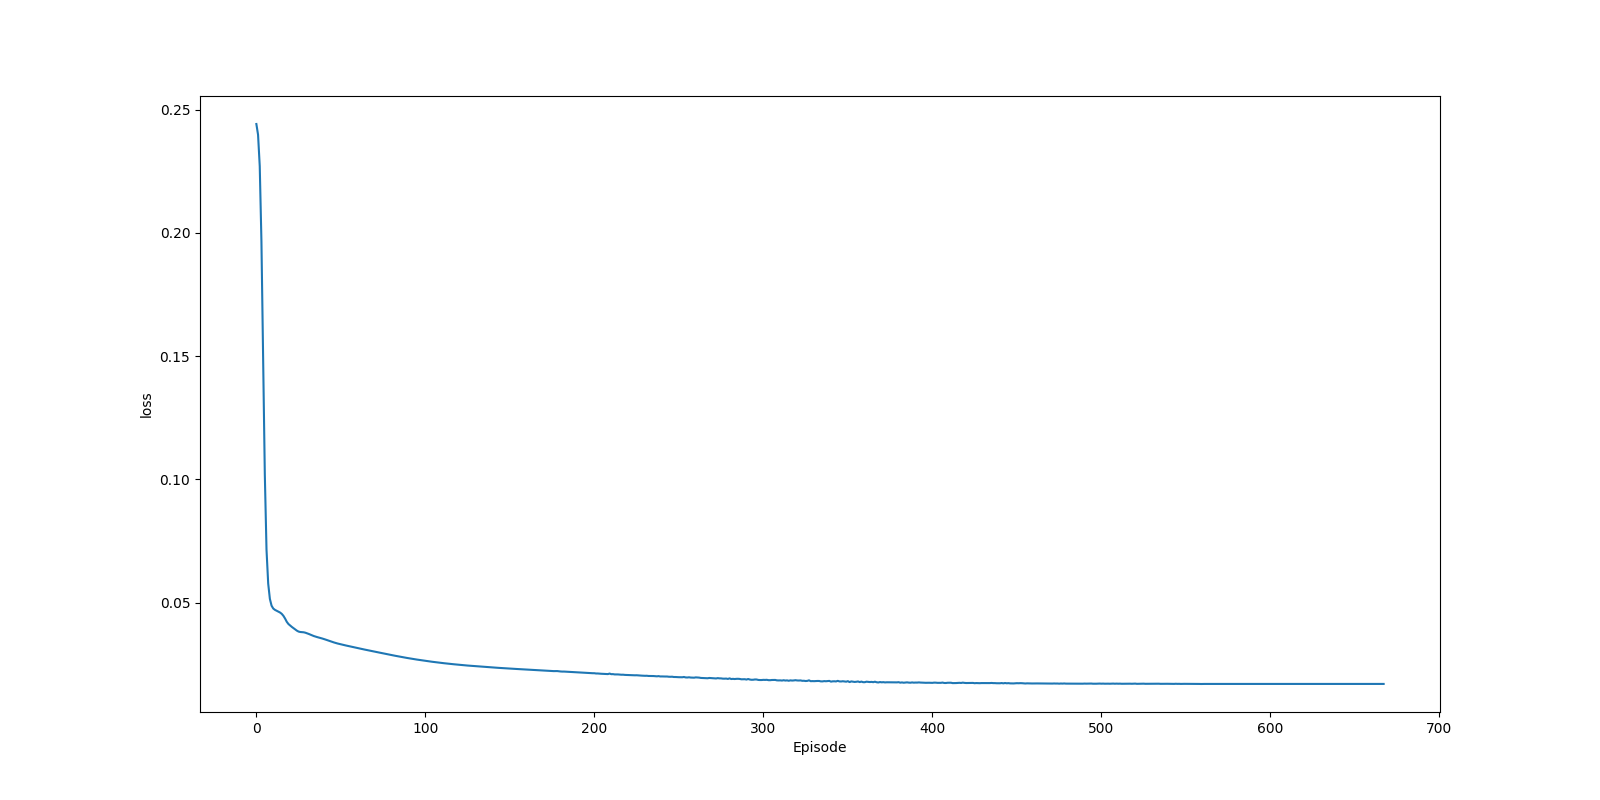
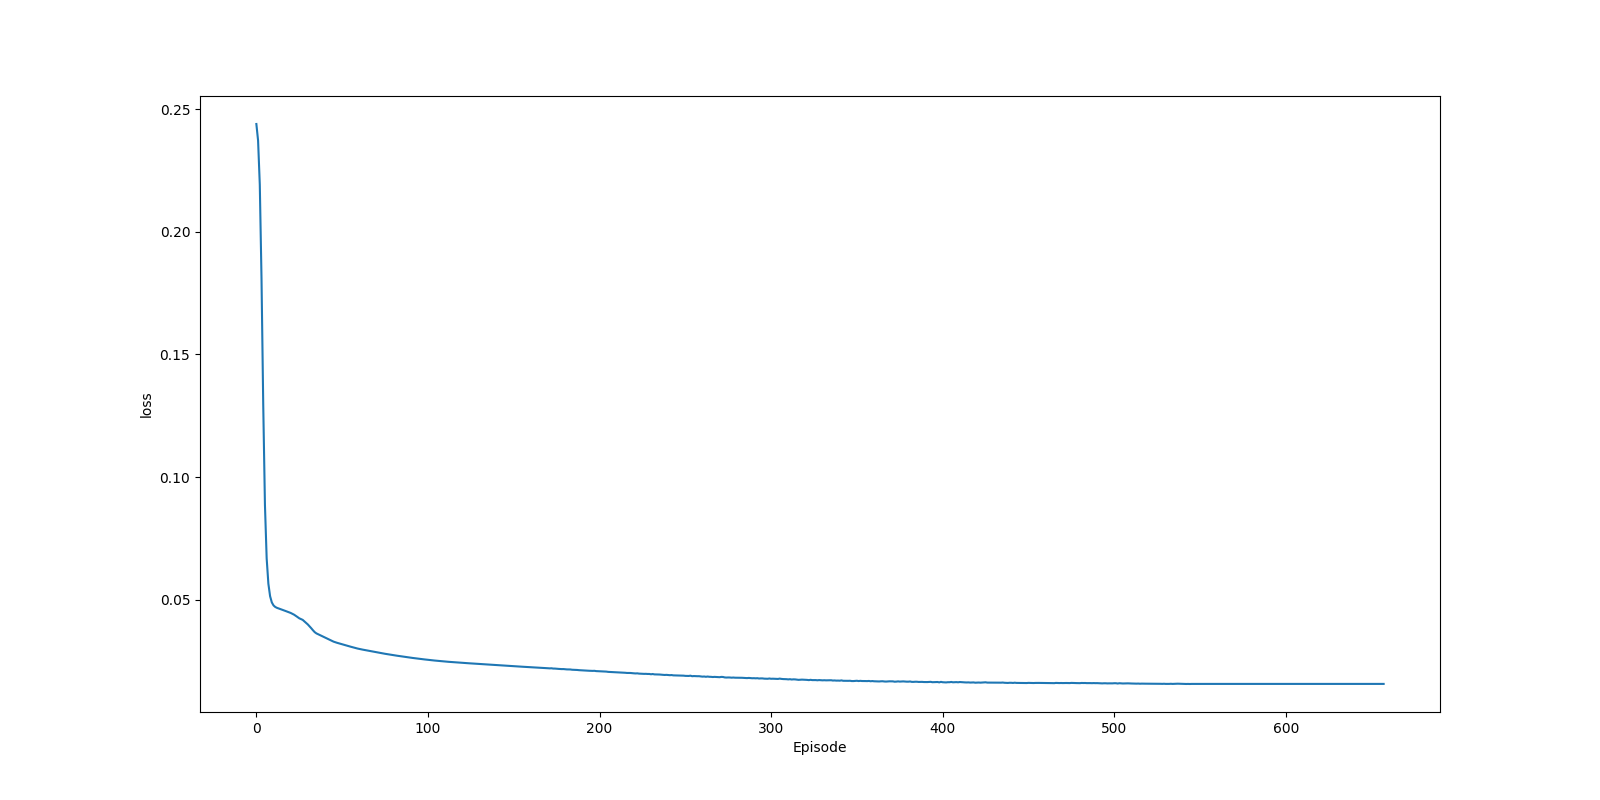
pole is generating well, started fake memory

diff --git a/project_experiments/vision_cart_pole.py b/project_experiments/vision_cart_pole.py
@@ -33,6 +33,10 @@ for filename in os.listdir(folder):
 
 ############ HYPERPARAMETERS ##############
 BATCH_SIZE = 128 # original = 128
+#env_batch_size = 256
+env_epochs = 10
+env_lr = 0.001
+env_decay = 0.9
 GAMMA = 0.999 # original = 0.999
 EPS_START = 0.9 # original = 0.9
 EPS_END = 0.01 # original = 0.05
@@ -53,6 +57,10 @@ HIDDEN_LAYER_2 = 64
 HIDDEN_LAYER_3 = 32
 KERNEL_SIZE = 5 # original = 5
 STRIDE = 2 # original = 2
+latent_dims = 15
+action_latents = 10
+deconv_ch2 = 128
+deconv_ch1 = 64
 # --------------------------------------
 
 GRAYSCALE = True # False is RGB
@@ -94,6 +102,8 @@ if is_ipython:
 
 Transition = namedtuple('Transition',
                         ('state', 'action', 'next_state', 'reward'))
+env_transition = namedtuple('Transition',
+                        ('state', 'action', 'next_state', 'state_vars'))
 
 # Memory for Experience Replay
 class ReplayMemory(object):
@@ -149,7 +159,7 @@ class DQN(nn.Module):
     
 class D_AutoEncoder(nn.Module):
 
-    def __init__(self, h, w, latent_dim, actions, action_latents):
+    def __init__(self, h, w, latent_dim, actions, action_latents):#""", state_vars):"""
         super(D_AutoEncoder, self).__init__()
         self.conv1 = nn.Conv2d(nn_inputs, HIDDEN_LAYER_1, kernel_size=KERNEL_SIZE, stride=STRIDE) 
         self.bn1 = nn.BatchNorm2d(HIDDEN_LAYER_1)
@@ -170,9 +180,10 @@ class D_AutoEncoder(nn.Module):
         self.latentize = nn.Linear(linear_input_size, latent_dim)
         self.action_encode = nn.Linear(actions, action_latents)
         self.un_latentize = nn.Linear(latent_dim + action_latents, linear_input_size)
-        self.tconv3 = nn.ConvTranspose2d(HIDDEN_LAYER_3, HIDDEN_LAYER_2, kernel_size=KERNEL_SIZE, stride=STRIDE, output_padding=[1,0])
-        self.tconv2 = nn.ConvTranspose2d(HIDDEN_LAYER_2, HIDDEN_LAYER_1, kernel_size=KERNEL_SIZE, stride=STRIDE, output_padding=[1,1])
-        self.tconv1 = nn.ConvTranspose2d(HIDDEN_LAYER_1, nn_inputs, kernel_size=KERNEL_SIZE, stride=STRIDE, output_padding=[1,0])
+        self.tconv3 = nn.ConvTranspose2d(HIDDEN_LAYER_3, deconv_ch2, kernel_size=KERNEL_SIZE, stride=STRIDE, output_padding=[1,0])
+        self.tconv2 = nn.ConvTranspose2d(deconv_ch2, deconv_ch1, kernel_size=KERNEL_SIZE, stride=STRIDE, output_padding=[1,1])
+        self.tconv1 = nn.ConvTranspose2d(deconv_ch1, nn_inputs, kernel_size=KERNEL_SIZE, stride=STRIDE, output_padding=[1,0])
+        #self.env_vars_decode = nn.Linear(linear_input_size, )
 
     # Called with either one element to determine next action, or a batch
     # during optimization. Returns tensor([[left0exp,right0exp]...]).
@@ -249,26 +260,6 @@ print("Screen height: ", screen_height," | Width: ", screen_width)
 # Get number of actions from gym action space
 n_actions = env.action_space.n
 
-policy_net = DQN(screen_height, screen_width, n_actions).to(device)
-target_net = DQN(screen_height, screen_width, n_actions).to(device)
-env_net = D_AutoEncoder(screen_height, screen_width, 10, n_actions, 5).to(device)
-target_net.load_state_dict(policy_net.state_dict())
-target_net.eval()
-
-if LOAD_MODEL == True:
-    policy_net_checkpoint = torch.load('save_model/policy_net_best3.pt') # best 3 is the default best
-    target_net_checkpoint = torch.load('save_model/target_net_best3.pt')
-    policy_net.load_state_dict(policy_net_checkpoint)
-    target_net.load_state_dict(target_net_checkpoint)
-    policy_net.eval()
-    target_net.eval()
-    stop_training = True # if we want to load, then we don't train the network anymore
-
-optimizer = optim.RMSprop(policy_net.parameters())
-memory = ReplayMemory(MEMORY_SIZE)
-
-env_optim = optim.Adam(env_net.parameters(), 0.01)
-
 steps_done = 0
 
 # Action selection , if stop training == True, only exploitation
@@ -343,25 +334,40 @@ def optimize_model():
 def optimize_env_model():
     if len(memory) < BATCH_SIZE:
         return
-    transitions = memory.sample(BATCH_SIZE)
-    # Transpose the batch (see https://stackoverflow.com/a/19343/3343043 for
-    # detailed explanation). This converts batch-array of Transitions
-    # to Transition of batch-arrays.
-    batch = Transition(*zip(*transitions))
+    
+    env_optim.defaults['lr'] = env_lr
+    for _ in range(env_epochs):
+        """transitions = env_memory.sample(BATCH_SIZE)
+        # Transpose the batch (see https://stackoverflow.com/a/19343/3343043 for
+        # detailed explanation). This converts batch-array of Transitions
+        # to Transition of batch-arrays.
+        batch = env_transition(*zip(*transitions))"""
+        transitions = memory.sample(BATCH_SIZE)
+        # Transpose the batch (see https://stackoverflow.com/a/19343/3343043 for
+        # detailed explanation). This converts batch-array of Transitions
+        # to Transition of batch-arrays.
+        batch = Transition(*zip(*transitions))
 
-    # Compute a mask of non-final states and concatenate the batch elements
-    # (a final state would've been the one after which simulation ended)
-    non_final_mask = torch.tensor(tuple(map(lambda s: s is not None,
-                                          batch.next_state)), device=device, dtype=torch.bool)
-    non_final_next_states = torch.cat([s for s in batch.next_state
-                                                if s is not None])
-    # torch.cat concatenates tensor sequence
-    state_batch = torch.cat(batch.state)
-    action_batch = torch.cat(batch.action)
+        # Compute a mask of non-final states and concatenate the batch elements
+        # (a final state would've been the one after which simulation ended)
+        non_final_mask = torch.tensor(tuple(map(lambda s: s is not None,
+                                            batch.next_state)), device=device, dtype=torch.bool)
+        non_final_next_states = torch.cat([s for s in batch.next_state
+                                                    if s is not None])
+        # torch.cat concatenates tensor sequence
+        state_batch = torch.cat(batch.state)
+        action_batch = torch.cat(batch.action)
+        """state_var_batch = torch.cat(batch.state_vars)
 
-    predicted_next_states = env_net(state_batch[non_final_mask], action_batch[non_final_mask])#.detach()
 
-    loss = F.mse_loss(predicted_next_states, non_final_next_states)
+        predicted_next_states, predicted_vars = env_net(state_batch[non_final_mask], action_batch[non_final_mask])#.detach()"""
+        predicted_next_states = env_net(state_batch[non_final_mask], action_batch[non_final_mask])#.detach()
+
+        loss = F.mse_loss(predicted_next_states, non_final_next_states)
+        env_optim.zero_grad()
+        loss.backward()
+        env_optim.step()
+        env_optim.defaults['lr'] *= env_decay
 
     #print(torch.max(non_final_next_states), torch.min(non_final_next_states))
     if i_episode%50==0:
@@ -400,18 +406,12 @@ def optimize_env_model():
     #wandb.log({'env_Loss:': loss})
 
     # Optimize the model
-    env_optim.zero_grad()
-    loss.backward()
-    #for param in policy_net.parameters():
-    #    param.grad.data.clamp_(-1, 1)
-    env_optim.step()
-    return loss.item()
 
 episodes_trajectories = []
 vae_losses = []
 episodes_after_stop = 100
 
-runs = 3
+runs = 2
 
 # MAIN LOOP
 stop_training = False
@@ -419,14 +419,16 @@ for j in range(runs):
     mean_last = deque([0] * LAST_EPISODES_NUM, LAST_EPISODES_NUM)
     policy_net = DQN(screen_height, screen_width, n_actions).to(device)
     target_net = DQN(screen_height, screen_width, n_actions).to(device)
-    env_net = D_AutoEncoder(screen_height, screen_width, 10, n_actions, 5).to(device)
+    env_net = D_AutoEncoder(screen_height, screen_width, latent_dims, n_actions, action_latents).to(device)
     target_net.load_state_dict(policy_net.state_dict())
     target_net.eval()
 
     optimizer = optim.RMSprop(policy_net.parameters())
     memory = ReplayMemory(MEMORY_SIZE)
-    env_optim = optim.Adam(env_net.parameters(), 0.001)
 
+    env_memory = ReplayMemory(MEMORY_SIZE)
+    env_optim = optim.Adam(env_net.parameters(), env_lr)
+    fake_memory = ReplayMemory(MEMORY_SIZE)
     
     count_final = 0
     
@@ -440,7 +442,12 @@ for j in range(runs):
         screens = deque([init_screen] * FRAMES, FRAMES)
         state = torch.cat(list(screens), dim=1)
 
+        fake_screens = deque([init_screen] * FRAMES, FRAMES)
+        fake_state = torch.cat(list(screens), dim=1)
+        
+
         for t in count():
+            #~~~~~~~~~~~~~~~~~~~~~~~~~~~~~~~~~~~~~~~~~~~~~~~~~~~~~~~~~~~~~~~~~~~~~~~~~~~~~~~~~real~~~~~~~~~~~~~~~~~~~~~~~~~~~~~~~~~~~~~~
 
             # Select and perform an action
             action = select_action(state, stop_training)
@@ -466,8 +473,41 @@ for j in range(runs):
             # Store the transition in memory
             memory.push(state, action, next_state, reward)
 
+
             # Move to the next state
             state = next_state
+            #~~~~~~~~~~~~~~~~~~~~~~~~~~~~~~~~~~~~~~~~~~~~~~~~~~~~~~~~~~~~~~~~~~~~~~~~~~~~~~~~~fake~~~~~~~~~~~~~~~~~~~~~~~~~~~~~~~~~~~~~~
+            """if not done:
+                # Select and perform an action
+                fake_action = select_action(fake_state, stop_training)
+
+                fake_screen = env_net(fake_state, fake_action)
+                #print(fake_screen.shape, screens[-1].shape)
+                # Observe new state
+                fake_screens.append(fake_screen[:,0,:,:].view(1,1,60,135))
+                
+                fake_next_state = torch.cat(list(fake_screens), dim=1) if not done else None
+
+                # Reward modification for better stability
+                x, x_dot, theta, theta_dot = state_variables
+                r1 = (env.x_threshold - abs(x)) / env.x_threshold - 0.8
+                r2 = (env.theta_threshold_radians - abs(theta)) / env.theta_threshold_radians - 0.5
+                reward = r1 + r2
+                reward = torch.tensor([reward], device=device)
+                if t >= END_SCORE-1:
+                    reward = reward + 20
+                    done = 1
+                else: 
+                    if done:
+                        reward = reward - 20 
+
+                # Store the transition in memory
+                memory.push(state, action, next_state, reward)
+                env_memory.push(state, action, next_state, state_variables)
+
+                # Move to the next state
+                state = next_state"""
+            #~~~~~~~~~~~~~~~~~~~~~~~~~~~~~~~~~~~~~~~~~~~~~~~~~~~~~~~~~~~~~~~~~~~~~~~~~~~~~~~~~process~~~~~~~~~~~~~~~~~~~~~~~~~~~~~~~~~~~~~~
 
             # Perform one step of the optimization (on the target network)
             if done:
@@ -550,7 +590,7 @@ t = np.arange(0, maximum, 1)
 
 fig, ax = plt.subplots(figsize=(16, 8))
 ax.fill_between(t, np.maximum(score_mean - score_std, 0),
-                np.minimum(score_mean + score_std, 200), color='b', alpha=0.2)
+                np.minimum(score_mean + score_std, END_SCORE), color='b', alpha=0.2)
 # ax.legend(loc='upper right')
 ax.set_xlabel('Episode')
 ax.set_ylabel('Score')
@@ -560,10 +600,14 @@ ax.plot(t, score_mean, label='Score Mean')
 ax.legend()
 fig.savefig('score.png')
 
-print(vae_losses[0][0])
-for a in range(len(vae_losses)):
+
+"""for a in range(len(vae_losses)):
     if len(vae_losses[a]) < t.size:
-        vae_losses[a].extend([vae_losses[a][-1]]*(t.size-len(vae_losses[a])))
+        try:
+            vae_losses[a].extend([vae_losses[a][-1]]*(t.size-len(vae_losses[a])))
+        except IndexError:
+            print(len(vae_losses), len(vae_losses[a]), a)
+            raise Exception("fuck")
 
 vae_losses = np.array(vae_losses)
 vae_losses = np.mean(vae_losses, axis=0)
@@ -573,4 +617,4 @@ ax.set_xlabel('Episode')
 ax.set_ylabel('loss')
 # ax.set_title('Inverted Pendulum Training Plot from Pixels')
 ax.plot(t, vae_losses)
-fig.savefig('loss.png')
+fig.savefig('loss.png')"""
